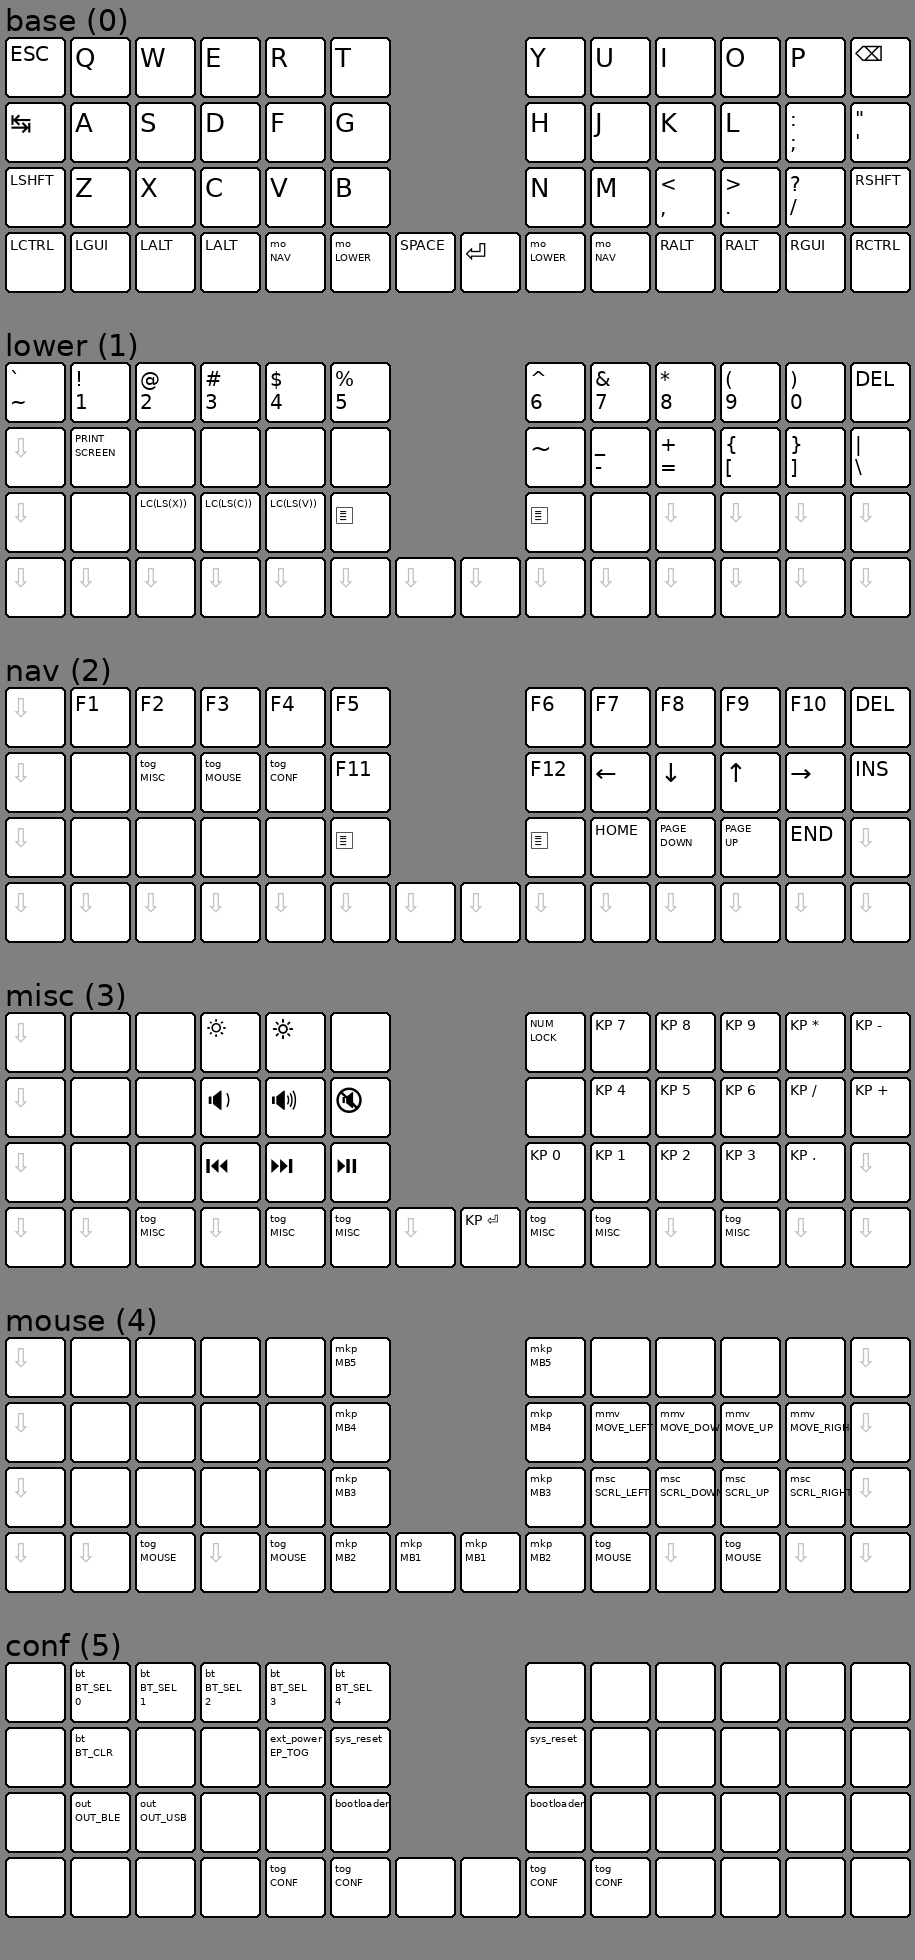
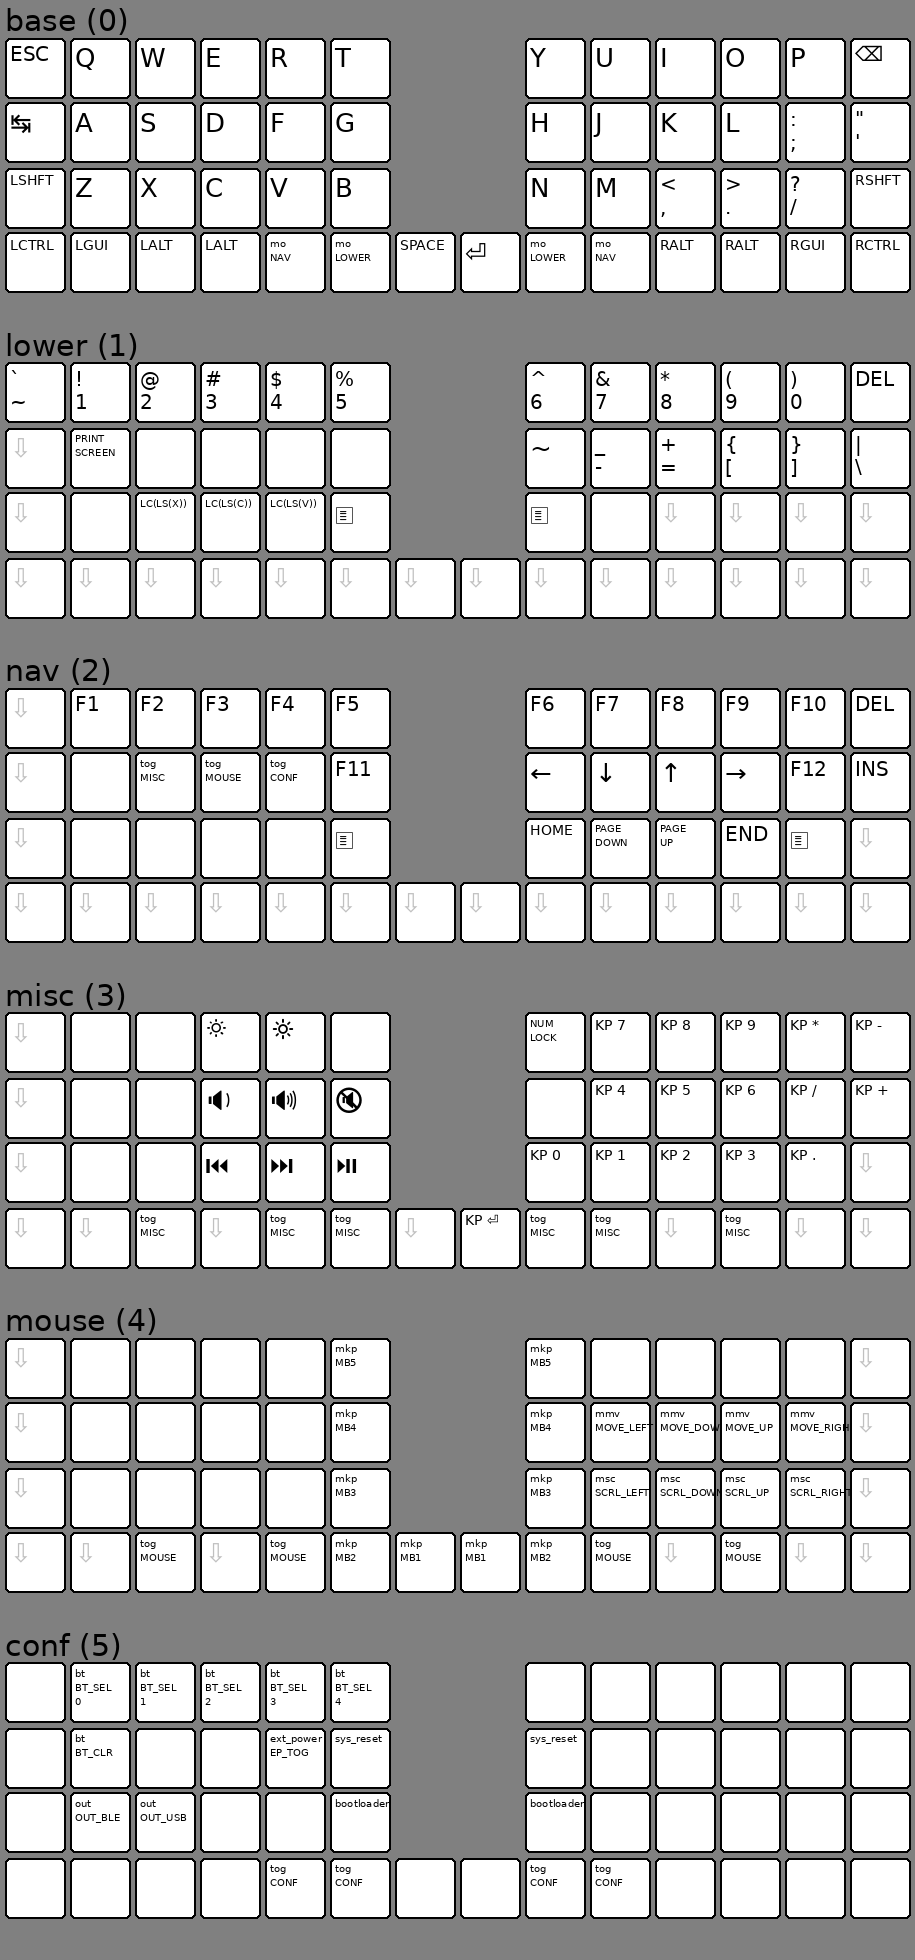
Left shift navigation cluster by 1 to match vi

diff --git a/build.py b/build.py
@@ -39,10 +39,10 @@ layout = {
         | &trans | &trans | &trans    | &trans     | &trans    | &trans    | &trans |
         """,
         """
-        |        | &kp F6    | &kp F7   | &kp F8    | &kp F9    | &kp F10   | &kp DEL |
-        |        | &kp F12   | &kp LEFT | &kp DOWN  | &kp UP    | &kp RIGHT | &kp INS |
-        |        | &kp K_APP | &kp HOME | &kp PG_DN | &kp PG_UP | &kp END   | &trans  |
-        | &trans | &trans    | &trans   | &trans    | &trans    | &trans    | &trans  |
+        |        | &kp F6   | &kp F7    | &kp F8    | &kp F9    | &kp F10   | &kp DEL |
+        |        | &kp LEFT | &kp DOWN  | &kp UP    | &kp RIGHT | &kp F12   | &kp INS |
+        |        | &kp HOME | &kp PG_DN | &kp PG_UP | &kp END   | &kp K_APP | &trans  |
+        | &trans | &trans   | &trans    | &trans    | &trans    | &trans    | &trans  |
         """,
     ],
     "misc": [
